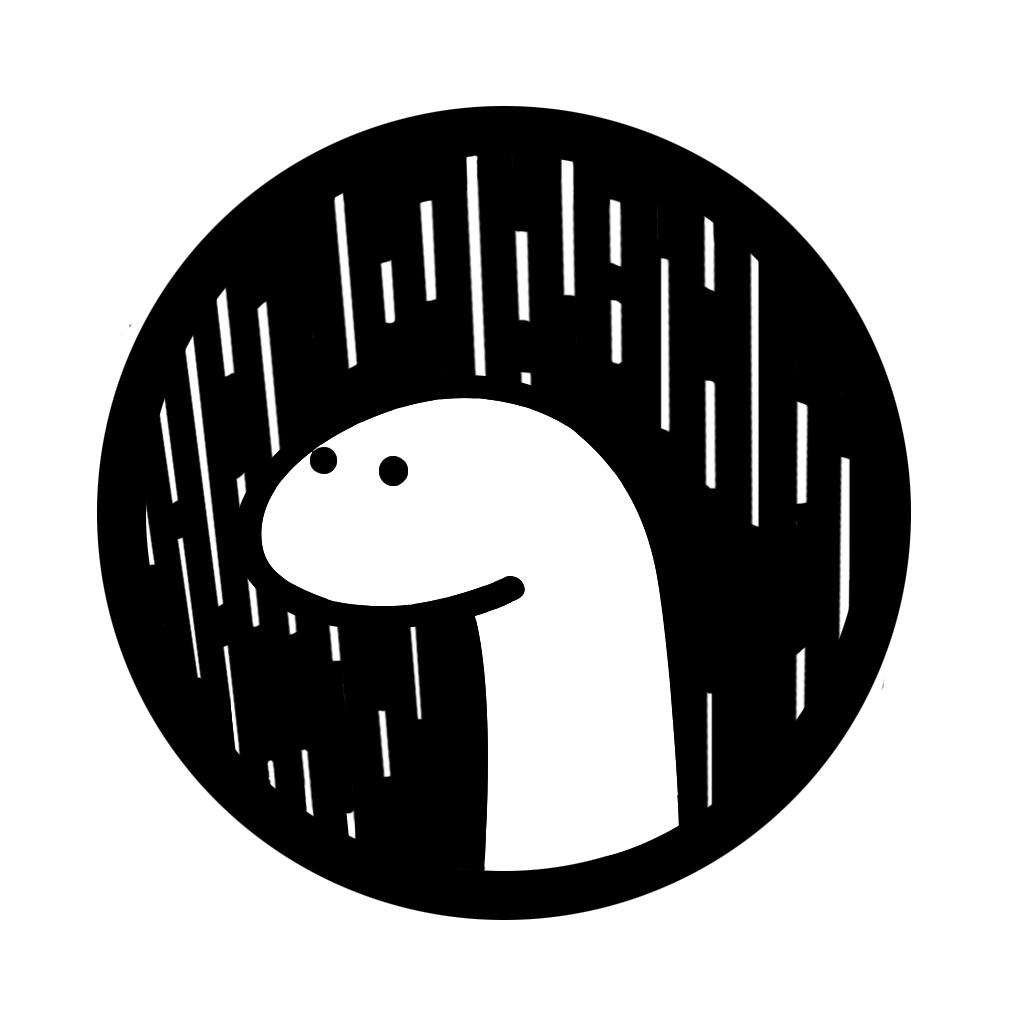
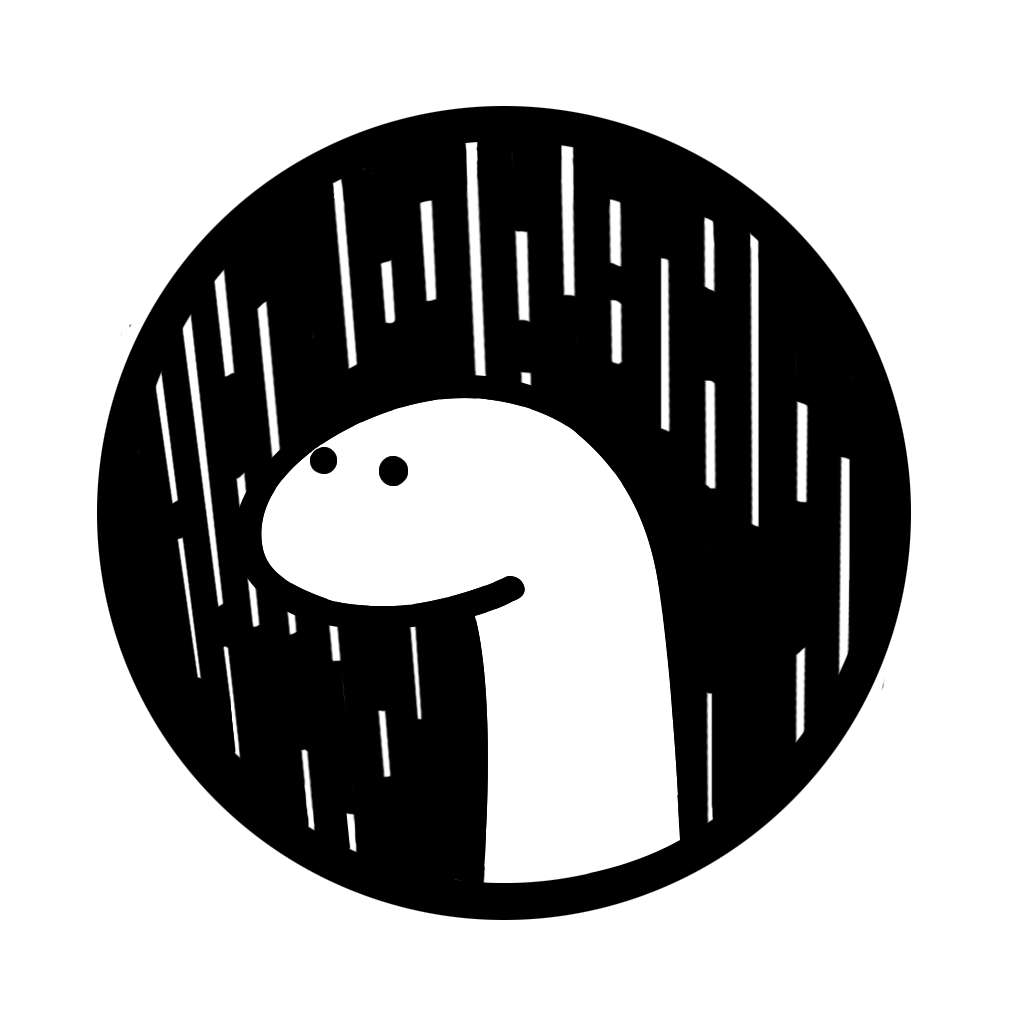
Slight tweak

diff --git a/README.md b/README.md
@@ -2,7 +2,7 @@
 
 "Dino in the Rain" Logo:
 
-<img src="https://denolib.github.io/high-res-deno-logo/deno_hr_circle_thin.png" alt="logo" width="300"/>
+<img src="https://denolib.github.io/high-res-deno-logo/deno_hr_circle.png" alt="logo" width="300"/>
 
 High resolution logo (remastering of the old logo) (by [@kevinkassimo](https://github.com/kevinkassimo)):
 
